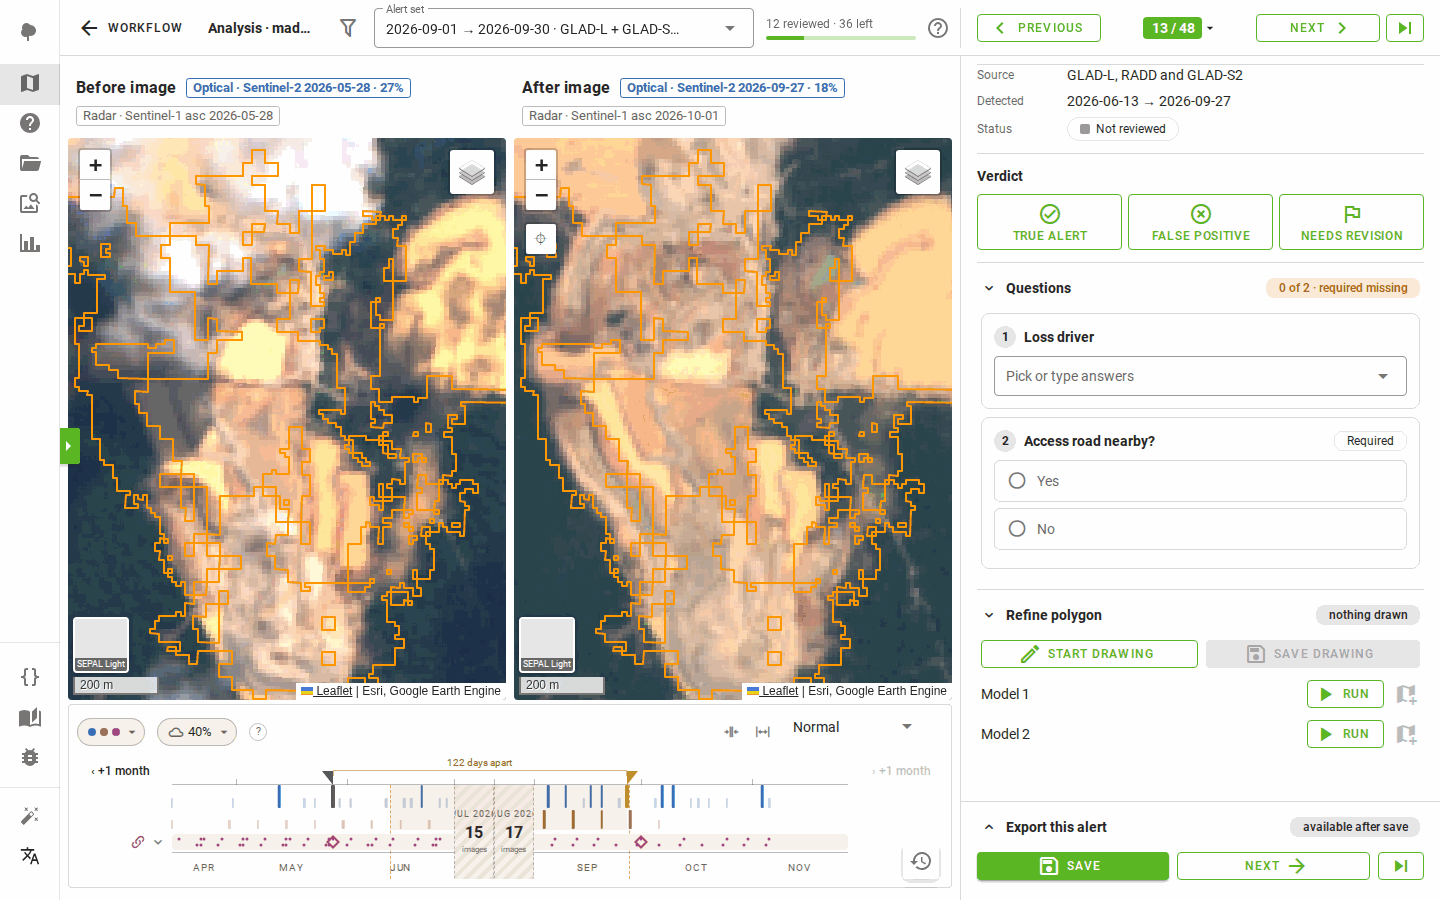
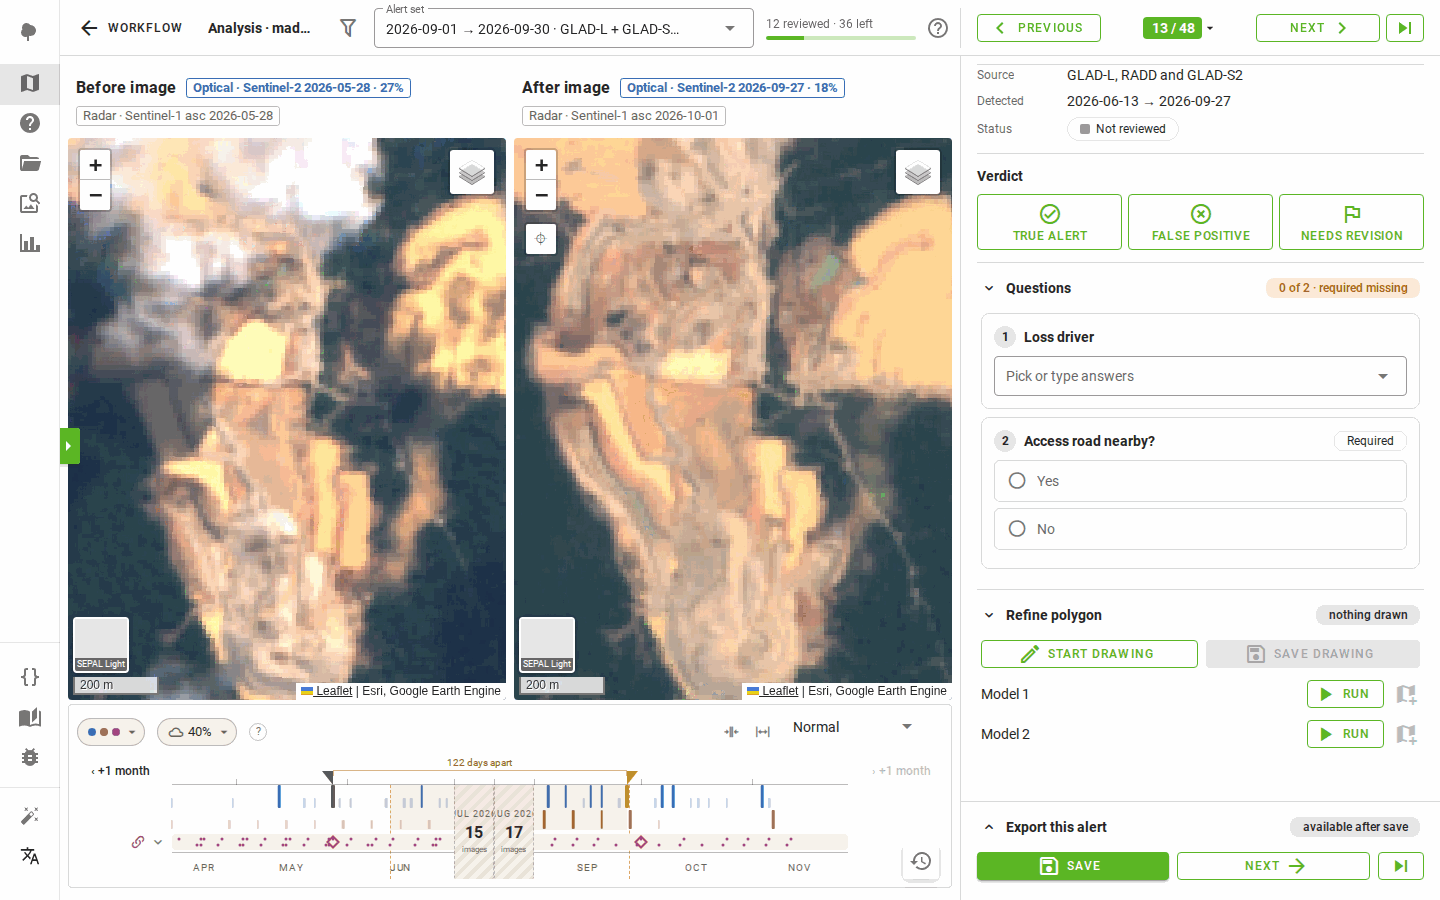
docs: Analysis screen picture without the alert outlines (en, es, fr, pt)

diff --git a/tools/docs/capture.py b/tools/docs/capture.py
@@ -1544,6 +1544,29 @@ def radar(page, on: bool):
         stable, last = (stable + 1 if n == last and n > 0 else 0), n
 
 
+_ALERT_LAYERS = """on => {
+  const ids = [];
+  for (const menu of document.querySelectorAll('.mv-layer-menu')) {
+    let section = '';
+    for (const el of menu.querySelectorAll('.mv-layers-section, input[data-id]')) {
+      if (el.matches('.mv-layers-section')) { section = el.dataset.section; continue; }
+      if (section !== 'alerts' || el.checked === on) continue;
+      el.checked = on;
+      el.dispatchEvent(new Event('change', {bubbles: true}));
+      ids.push(el.dataset.id);
+    }
+  }
+  return ids;
+}"""
+
+
+def analysis_alert_layers(page, on) -> list:
+    """Tick or clear the Alerts layers in both Analysis maps' layer menus; the ids changed."""
+    ids = page.evaluate(_ALERT_LAYERS, on)
+    wait(page, 800)
+    return ids
+
+
 def shot_analysis_screen(page):
     guide_alert(page)
     if reviewed() != 12 or store().set_index("alert_id").loc[GUIDE_ALERT, "status"] != "Not reviewed":
@@ -1551,8 +1574,16 @@ def shot_analysis_screen(page):
     radar(page, True)
     open_section(page, T("analysis_tile.sections.questions"))
     maps_ready(page)
+    # The screen's picture shows the two images bare: the alert outlines are off.
+    hidden = analysis_alert_layers(page, False)
+    if not hidden:
+        raise AssertionError("analysis-screen found no alert layer to hide in the maps' layer menus")
     quiet(page)
     save(page, "analysis-screen")
+    for layer in hidden:  # only what this shot hid: later shots show the outlines
+        page.evaluate("""id => document.querySelectorAll(`.mv-layer-menu input[data-id="${id}"]`).forEach(el => {
+            if (!el.checked) { el.checked = true; el.dispatchEvent(new Event('change', {bubbles: true})); } })""", layer)
+    wait(page, 800)
     radar(page, False)
 
 

diff --git a/doc/en.rst b/doc/en.rst
@@ -2048,7 +2048,7 @@ It needs an alert set: until `Integrate & vectorize <defo-integrate_>`_ has made
 The screen
 ^^^^^^^^^^
 
-.. shot: analysis-screen | The whole Analysis screen of the demo project at 1440×900, on an unreviewed alert in the middle of the set: the top bar (Workflow, "Analysis · <project>", the funnel, the Alert set selector, the tally "12 reviewed · 36 left" over its bar, the help icon, Previous · 13 / 48 · Next and the next-unreviewed icon); the two maps with titles "Before image" and "After image" each followed by an "Optical · Sentinel-2 2026-05-28 · 27%" / "Optical · Sentinel-2 2026-09-27 · 18%" chip and a "Radar" chip, the Original alert outlines, the layers icon at the top right of each map, the basemap thumbnail and the scale bar at the bottom left; the timeline under the maps with the optical and radar lanes, all handles placed; the right panel with Source / Detected / Status, the Verdict buttons, the Questions section open with the loss driver and the added "Access road nearby?" question, the Refine polygon section closed, and the dock (Export this alert "available after save", Save filled, Next, the next-unreviewed icon). No crop.
+.. shot: analysis-screen | The whole Analysis screen of the demo project at 1440×900, on an unreviewed alert in the middle of the set: the top bar (Workflow, "Analysis · <project>", the funnel, the Alert set selector, the tally "12 reviewed · 36 left" over its bar, the help icon, Previous · 13 / 48 · Next and the next-unreviewed icon); the two maps with titles "Before image" and "After image" each followed by an "Optical · Sentinel-2 2026-05-28 · 27%" / "Optical · Sentinel-2 2026-09-27 · 18%" chip and a "Radar" chip, the alert layers cleared in each map's layers menu so the images show bare, the layers icon at the top right of each map, the basemap thumbnail and the scale bar at the bottom left; the timeline under the maps with the optical and radar lanes, all handles placed; the right panel with Source / Detected / Status, the Verdict buttons, the Questions section open with the loss driver and the added "Access road nearby?" question, the Refine polygon section closed, and the dock (Export this alert "available after save", Save filled, Next, the next-unreviewed icon). No crop.
 
 .. figure:: https://raw.githubusercontent.com/sepal-contrib/deforestation-alerts-module/release/doc/en/img/analysis-screen.png
     :alt: The Analysis screen
